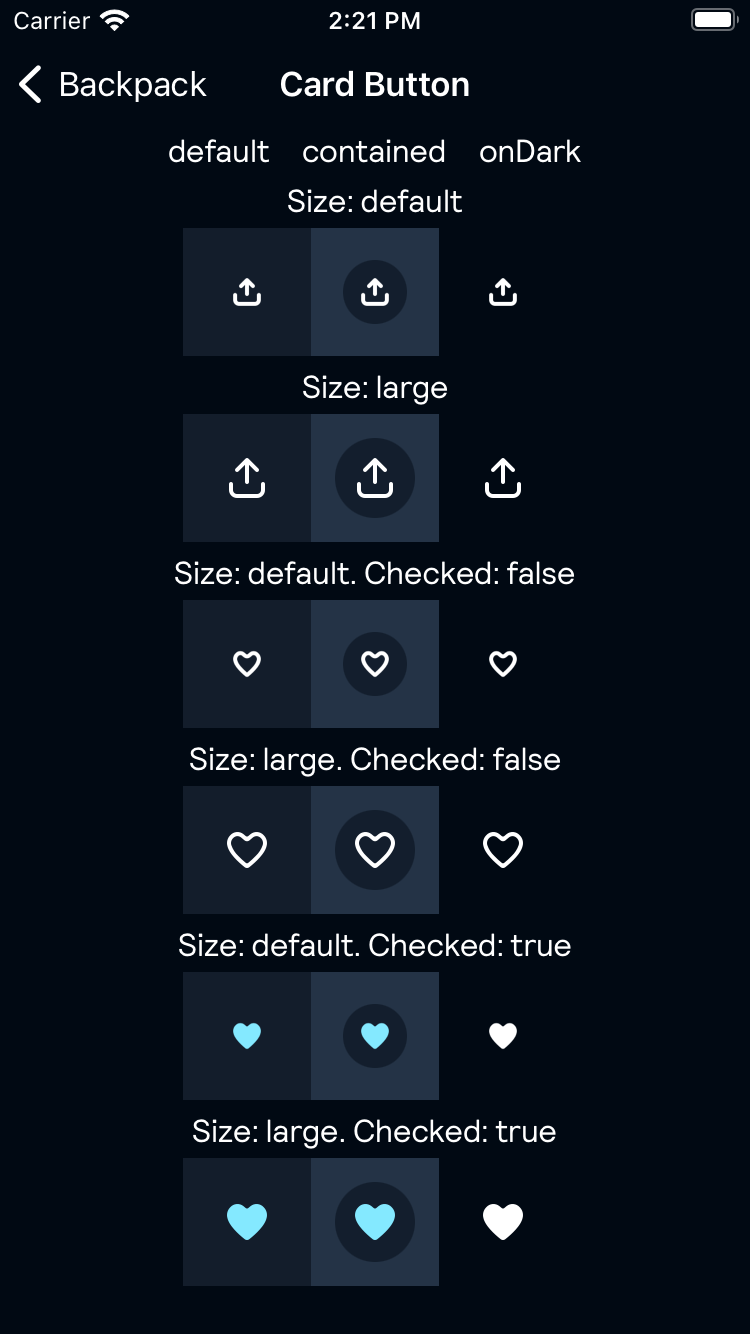
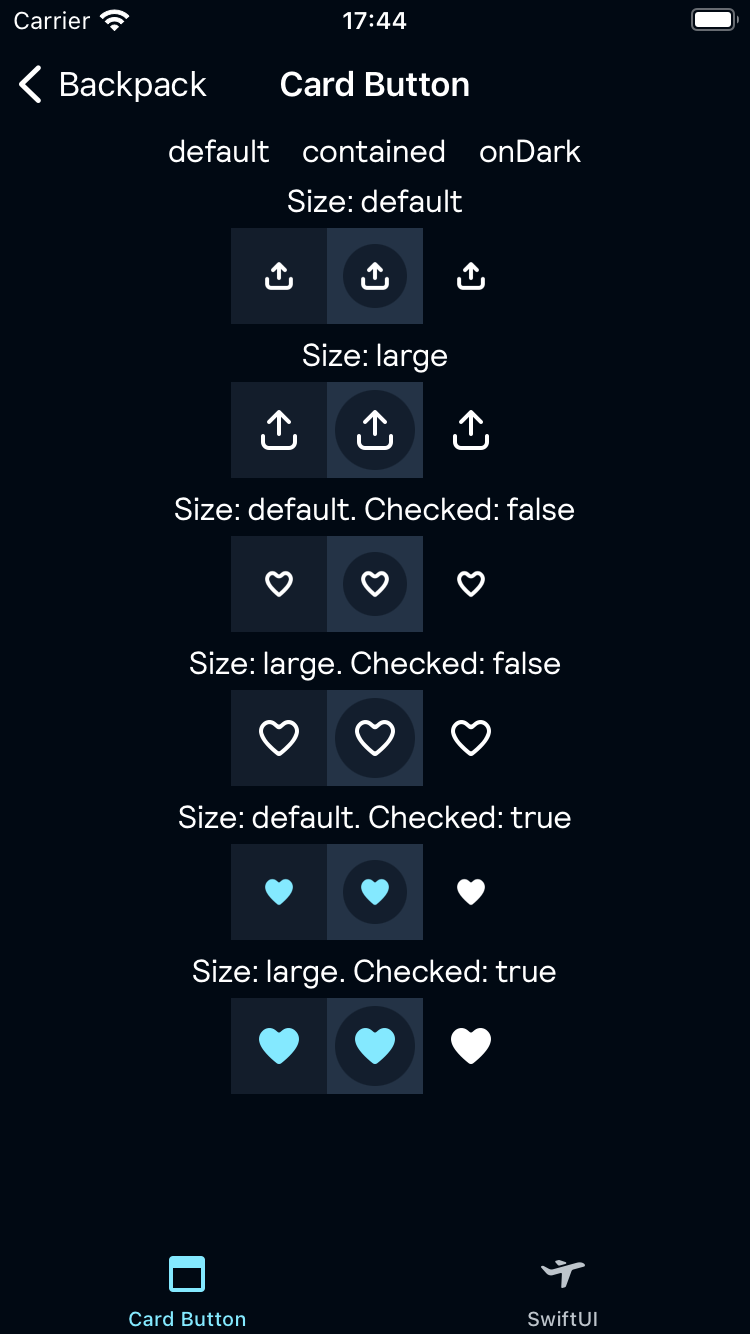
Examples

diff --git a/Example/Backpack/SwiftUI/Components/Card Button/CardButtonExampleView.swift b/Example/Backpack/SwiftUI/Components/Card Button/CardButtonExampleView.swift
@@ -1,0 +1,131 @@
+//
+/*
+ * Backpack - Skyscanner's Design System
+ *
+ * Copyright © 2024 Skyscanner Ltd. All rights reserved.
+ *
+ * Licensed under the Apache License, Version 2.0 (the "License");
+ * you may not use this file except in compliance with the License.
+ * You may obtain a copy of the License at
+ *
+ *   http://www.apache.org/licenses/LICENSE-2.0
+ *
+ * Unless required by applicable law or agreed to in writing, software
+ * distributed under the License is distributed on an "AS IS" BASIS,
+ * WITHOUT WARRANTIES OR CONDITIONS OF ANY KIND, either express or implied.
+ * See the License for the specific language governing permissions and
+ * limitations under the License.
+ */
+
+import SwiftUI
+import Backpack_SwiftUI
+
+struct CardButtonExampleView: View {
+    var body: some View {
+        HStack(spacing: .base) {
+            makeColumn(style: .default)
+            makeColumn(style: .contained)
+            makeColumn(style: .onDark)
+        }
+        .background(.canvasColor)
+    }
+    
+    private func makeColumn(style: Backpack_SwiftUI.BPKCardButtonStyle) -> some View {
+        VStack {
+            BPKText(style.previewTitle)
+            VStack(spacing: .base) {
+                shareButtonGroup(style: style)
+                saveButtonGroup(style: style)
+            }
+            .padding()
+            .background(style.previewBackgroudColor)
+        }
+    }
+    
+    @ViewBuilder
+    private func shareButtonGroup(style: Backpack_SwiftUI.BPKCardButtonStyle) -> some View {
+        BPKShareCardButton(
+            size: .small,
+            style: style,
+            accessibilityLabel: "share",
+            action: { }
+        )
+        BPKShareCardButton(
+            size: .default,
+            style: style,
+            accessibilityLabel: "share",
+            action: { }
+        )
+    }
+    
+    @ViewBuilder
+    private func saveButtonGroup(style: Backpack_SwiftUI.BPKCardButtonStyle) -> some View {
+        BPKSaveCardButtonInteractiveDemo(
+            size: .small,
+            style: style,
+            checked: false
+        )
+        BPKSaveCardButtonInteractiveDemo(
+            size: .default,
+            style: style,
+            checked: false
+        )
+        
+        BPKSaveCardButtonInteractiveDemo(
+            size: .small,
+            style: style,
+            checked: true
+        )
+        BPKSaveCardButtonInteractiveDemo(
+            size: .default,
+            style: style,
+            checked: true
+        )
+    }
+}
+
+private extension Backpack_SwiftUI.BPKCardButtonStyle {
+    var previewTitle: String {
+        switch self {
+        case .default:
+            return "default"
+        case .contained:
+            return "contained"
+        case .onDark:
+            return "onDark"
+        }
+    }
+    
+    var previewBackgroudColor: Backpack_SwiftUI.BPKColor {
+        switch self {
+        case .default:
+            return .surfaceDefaultColor
+        case .contained:
+            return .surfaceHighlightColor
+        case .onDark:
+            return .black
+        }
+    }
+}
+
+private struct BPKSaveCardButtonInteractiveDemo: View {
+    let size: Backpack_SwiftUI.BPKCardButtonSize
+    let style: Backpack_SwiftUI.BPKCardButtonStyle
+    @State var checked: Bool
+    
+    var body: some View {
+        BPKSaveCardButton(
+            size: size,
+            style: style,
+            checked: checked,
+            accessibilityLabel: "save",
+            action: {
+                checked.toggle()
+            }
+        )
+    }
+}
+
+#Preview {
+    CardButtonExampleView()
+}

diff --git a/Example/Backpack/Utils/FeatureStories/ComponentCells.swift b/Example/Backpack/Utils/FeatureStories/ComponentCells.swift
@@ -160,10 +160,21 @@ extension ComponentCellsProvider {
         )
     }
     private func cardButton() -> CellDataSource {
-        PresentableCellDataSource.custom(
+        ComponentCellDataSource(
             title: "Card Button",
-            customController: { CardButtonsViewController() },
-            showPresentable: show(presentable:)
+            tabs: [
+                .uikit(presentable: CustomPresentable(
+                    generateViewController: {
+                        CardButtonsViewController()
+                    }
+                )),
+                .swiftui(presentable: CustomPresentable(
+                    generateViewController: {
+                        ContentUIHostingController(CardButtonExampleView())
+                    }
+                ))
+            ],
+            showChildren: { showComponent(title: "Card Button", tabs: $0) }
         )
     }
     private func chips() -> CellDataSource {

diff --git a/Example/Backpack/UIKit/Components/Card/Card Button/CardButtonsViewController.swift b/Example/Backpack/UIKit/Components/Card/Card Button/CardButtonsViewController.swift
@@ -154,8 +154,8 @@ final class CardButtonsViewController: UIViewController {
         NSLayoutConstraint.activate([
             subview.centerXAnchor.constraint(equalTo: container.centerXAnchor),
             subview.centerYAnchor.constraint(equalTo: container.centerYAnchor),
-            container.widthAnchor.constraint(equalToConstant: BPKSpacingXl * 2),
-            container.heightAnchor.constraint(equalToConstant: BPKSpacingXl * 2)
+            container.widthAnchor.constraint(equalToConstant: BPKSpacingLg * 2),
+            container.heightAnchor.constraint(equalToConstant: BPKSpacingLg * 2)
         ])
         return container
     }

diff --git a/Example/Backpack Screenshot/SwiftUIScreenshots.swift b/Example/Backpack Screenshot/SwiftUIScreenshots.swift
@@ -803,6 +803,13 @@ class SwiftUIScreenshots: BackpackSnapshotTestCase {
         await navigate(title: "Horizontal navigation") {
             switchTab(title: "SwiftUI")
             saveScreenshot(component: "horizontal-navigation", scenario: "default", userInterfaceStyle: userInterfaceStyle)
+            tapBackButton()
+        }
+        
+        await navigate(title: "Card Button") {
+            switchTab(title: "SwiftUI")
+            saveScreenshot(component: "card-button", scenario: "all", userInterfaceStyle: userInterfaceStyle)
+            tapBackButton()
         }
     }
 }
